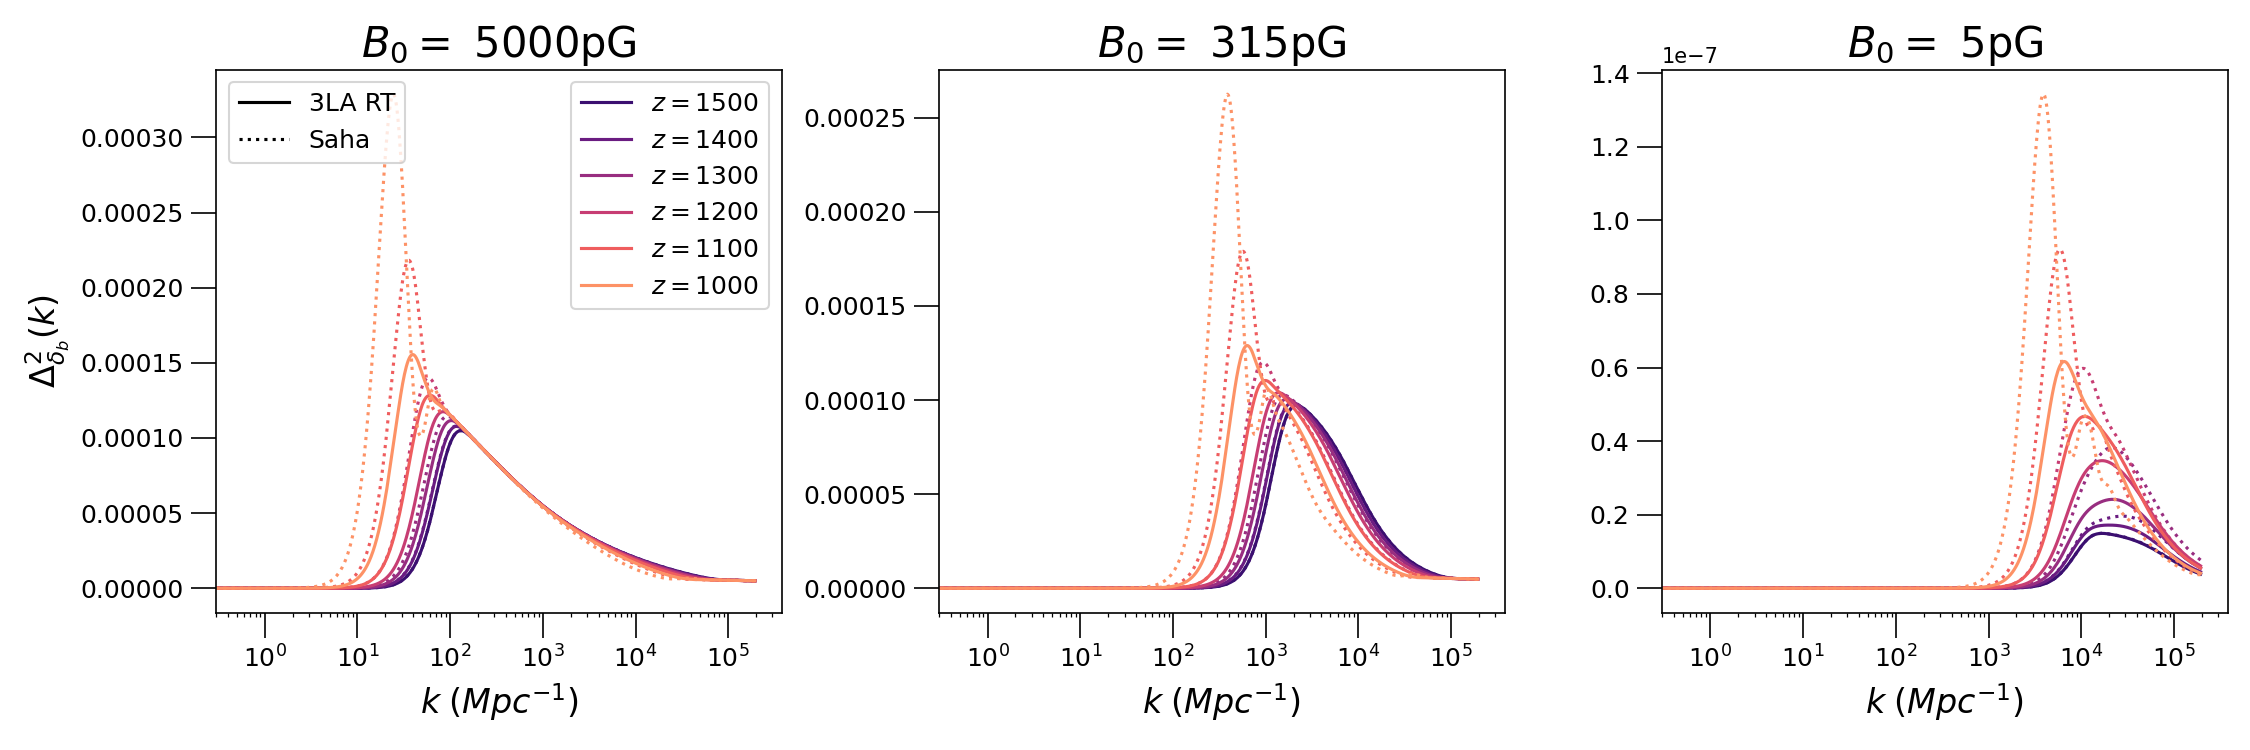
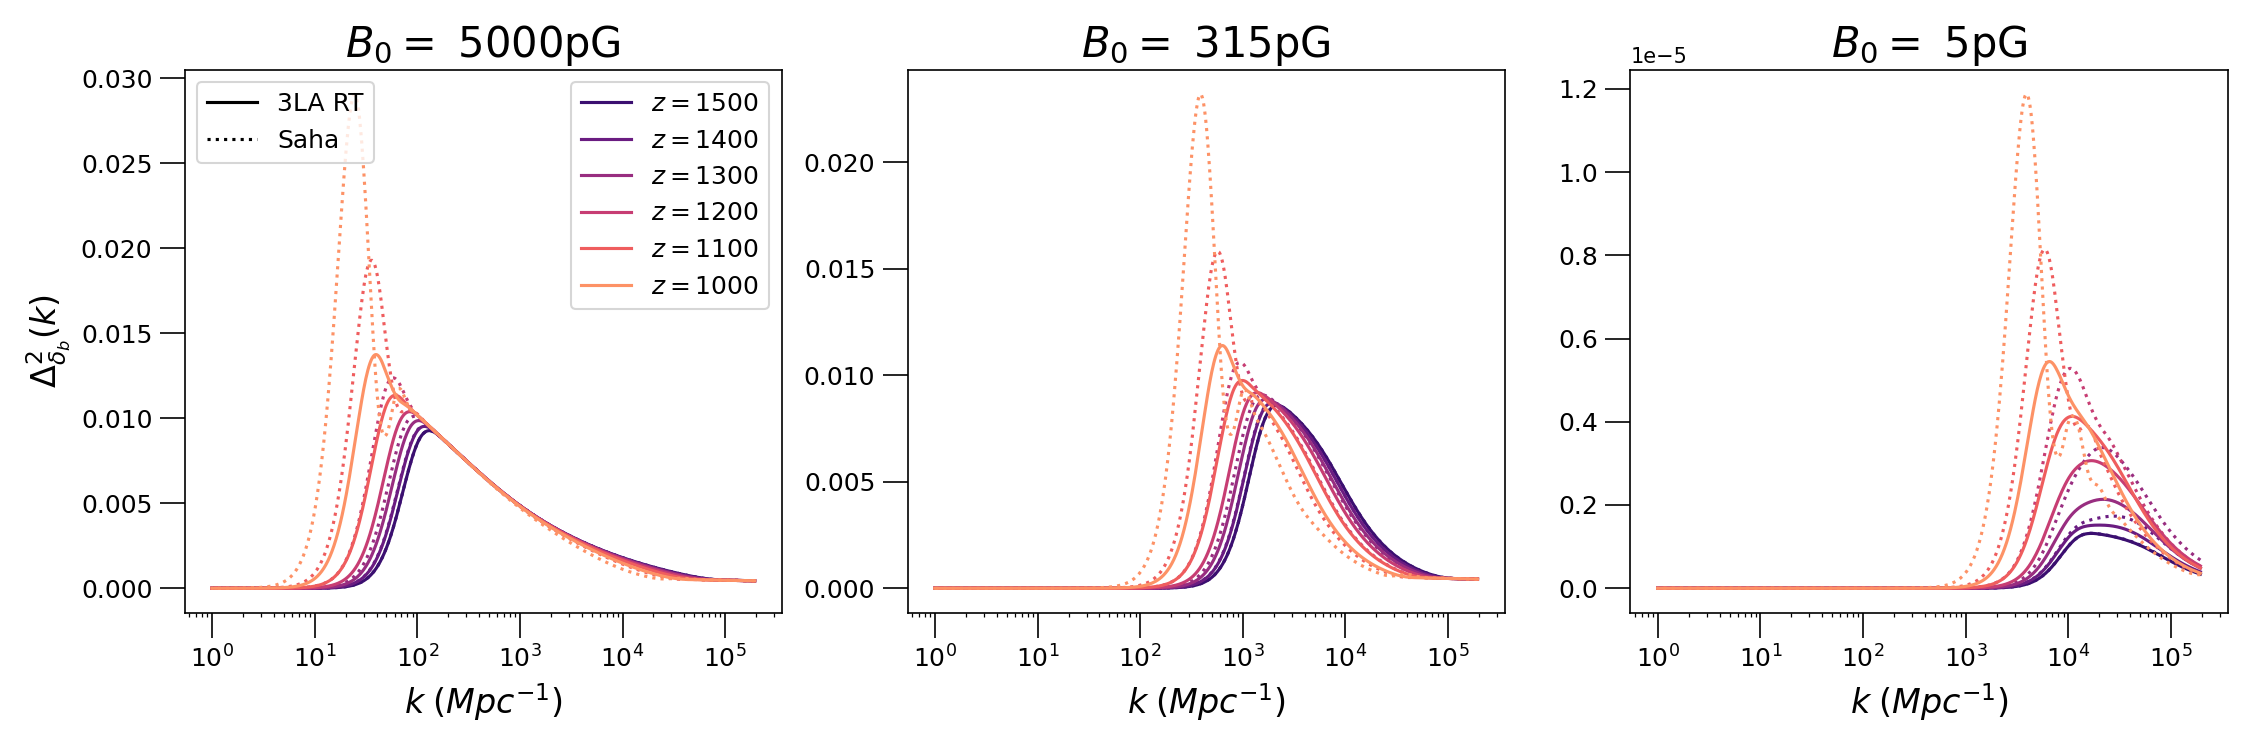
Fix Delta^2 plotting normalization: use (|eps|/4)(Lambda k/2pi)^eps
The power-spectrum plots carried a spurious constant factor of 1.13e-2
relative to the equation normalization used everywhere else in the pipeline,
from three compounding slips in one expression:

  1. -epsarr[...] gives |eps| where the normalization needs |eps|/4  (x4)
  2. operator precedence: (Lambda / 2 * np.pi) is Lambda*pi/2, not Lambda/(2pi)
  3. the SI-valued Lambda was paired with k in Mpc^-1 (karrfine*cons.mpc),
     while the equation pairs SI Lambda with SI k so Lambda*k/(2pi) is
     dimensionless

Net: 4*(pi^2*mpc)^eps = 1.1316e-2, i.e. the plotted curves were ~88.4x too low
(coincidentally close to eps^2 = 0.01, as a reader noticed).

Verified: with the fix, int dlnk of the plotted curve reproduces the
equation-normalized clumping factor b to 0.01% (was off by 88x). Affects only
the two absolute-normalization plots, 06_clumping_power_spectrum (paper Fig. 5)
and 14_TbTb_power_spectrum (repo-only, not in the manuscript); the other seven
figures from these scripts regenerate byte-identical, since ratio and
percent-difference plots cancel the prefactor.

The correction is a uniform rescaling: no shape, peak position, 3LA-vs-Saha
relation or z/B0 trend changes, and no reported number is affected (the
pipeline always used the correct normalization).

diff --git a/analysis/plot_power_spectra_and_clumping.py b/analysis/plot_power_spectra_and_clumping.py
@@ -114,7 +114,8 @@ colors = [plt.cm.Reds(i) for i in np.linspace(0.2, 1, numberofplotspec)]
 numberofplotspec2 = 8
 colors2 = [plt.cm.magma(i) for i in np.linspace(0.2, 1, numberofplotspec2)]
 bindarr2 = [0, 30, 60]
-lamarrfine = 10**np.arange(20, np.log10(2 * np.pi / (0.3 / cons.mpc)), .01)
+kmin_kind = np.argmin(np.abs(karr * cons.mpc - 1.0))  # kind whose k is closest to 1 Mpc^-1
+lamarrfine = 10**np.arange(20, np.log10(2 * np.pi / karr[kmin_kind]), .01)
 karrfine = 2 * np.pi / lamarrfine
 Lambda = 1e3 * cons.mpc
 
@@ -130,16 +131,15 @@ for bcount, bind in enumerate(bindarr2):
     for zi in range(len(zindarr)):
         zind = zindarr[zi]
         ax.semilogx(karrfine * cons.mpc,
-                   -epsarr[9] * (Lambda / 2 * np.pi)**epsarr[9] * (karrfine * cons.mpc)**epsarr[9] *
+                   (abs(epsarr[9]) / 4) * (Lambda * karrfine / (2 * np.pi))**epsarr[9] *
                    abs(splev(karrfine * cons.mpc, splrep(karr[::-1] * cons.mpc, deltamdeltambar[::-1, zind, bind]))),
                    label=f'$z={zarr[zind]:.0f}$', color=colors2[zi])
         ax.semilogx(karrfine * cons.mpc,
-                   -epsarr[9] * (Lambda / 2 * np.pi)**epsarr[9] * (karrfine * cons.mpc)**epsarr[9] *
+                   (abs(epsarr[9]) / 4) * (Lambda * karrfine / (2 * np.pi))**epsarr[9] *
                    abs(splev(karrfine * cons.mpc, splrep(karr[::-1] * cons.mpc, deltamdeltambar_saha[::-1, zind, bind]))),
                    ':', color=colors2[zi])
     ax.set_xlabel(r'$k \; (Mpc^{-1})$', fontsize=16)
     ax.set_title(f'$B_0 = $ {pg(bind)}pG', fontsize=20)
-    ax.set_xlim(left=0.3)
     if bcount % 3 == 0:
         ax.set_ylabel(r'$\Delta^2_{\delta_b}(k)$', fontsize=16)
     if bcount == 0:

diff --git a/analysis/plot_baryon_heating.py b/analysis/plot_baryon_heating.py
@@ -205,7 +205,7 @@ for bcount, bind in enumerate(bindarr2):
     for zi in range(len(zindarr)):
         zind = zindarr[zi]
         ax.loglog(karrfine * cons.mpc,
-                 -epsarr[epsind] * (Lambda / 2 * np.pi)**epsarr[epsind] * (karrfine * cons.mpc)**epsarr[epsind] *
+                 (abs(epsarr[epsind]) / 4) * (Lambda * karrfine / (2 * np.pi))**epsarr[epsind] *
                  abs(splev(karrfine * cons.mpc, splrep(karr[::-1] * cons.mpc, TbTbbar[::-1, zind, bind]))),
                  label=f'$z={zarr[zind]-1:.0f}$', color=colors2[zi])
     ax.set_xlabel(r'$k \; (Mpc^{-1})$', fontsize=16)

diff --git a/analysis/plot_20keV_power_spectrum.py b/analysis/plot_20keV_power_spectrum.py
@@ -70,7 +70,7 @@ for bind in bindarr:
 
 
 def delta2(dd, zind, bind):
-    return (-eps * (Lambda / 2 * np.pi) ** eps * (karrfine * cons.mpc) ** eps
+    return ((abs(eps) / 4) * (Lambda * karrfine / (2 * np.pi)) ** eps
              * abs(splev(karrfine * cons.mpc, splrep(karr[::-1] * cons.mpc, dd[::-1, zind, bind]))))
 
 
